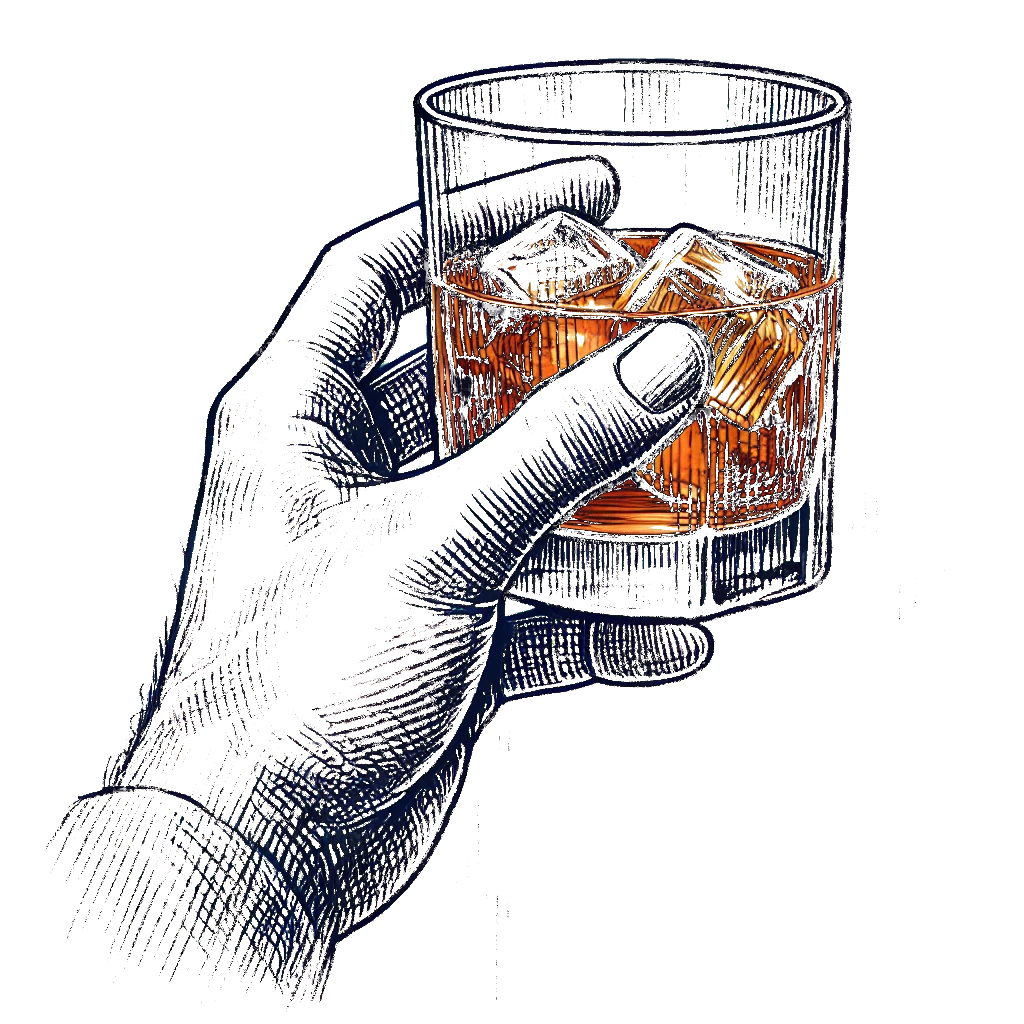
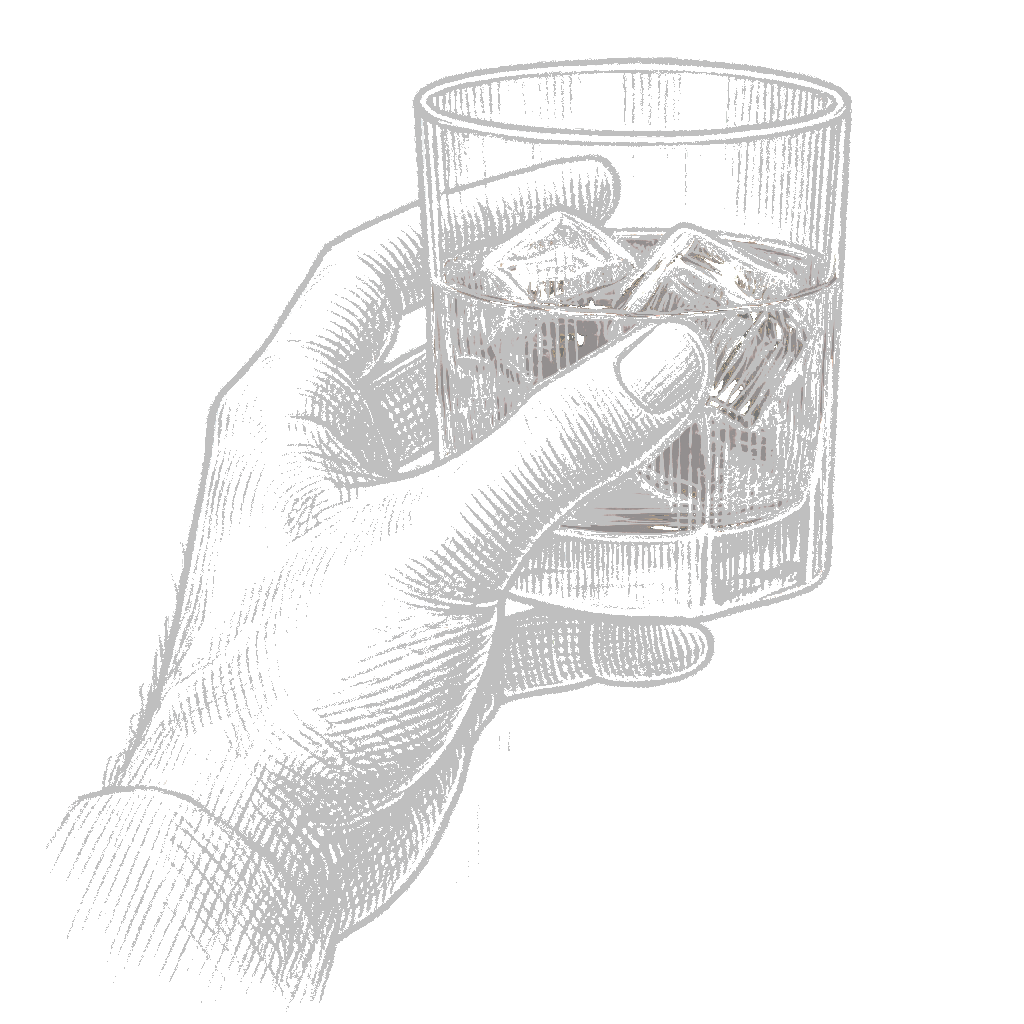
build 7, colors changed

diff --git a/src/AgeVerification.js b/src/AgeVerification.js
@@ -1,23 +1,26 @@
 import React, { useState } from 'react';
 import handImage from './hand.png'; // Import the image
 
+
 const AgeVerification = ({ setIsVerified }) => {
   const [showMirroredImage, setShowMirroredImage] = useState(false);
-  const [animateLeftImage, setAnimateLeftImage] = useState(false); // New state to animate the left image
+  const [animateLeftImage, setAnimateLeftImage] = useState(false);
+  const [fadeOut, setFadeOut] = useState(false); // State to trigger fade-out
 
   const handleYesClick = () => {
-    setAnimateLeftImage(true); // Trigger animation for the left image
+    setAnimateLeftImage(true);
+    setFadeOut(true); // Trigger fade-out effect
     setTimeout(() => {
-      setShowMirroredImage(true); // Show mirrored image after the left image starts animating
-    }, 10); // Adjust time to sync animations
+      setShowMirroredImage(true); // Show mirrored image after animation starts
+    }, 10);
     setTimeout(() => {
-      setIsVerified(true); // After animation, mark as verified
-    }, 2500); // Adjust time based on animation duration
+      setIsVerified(true); // After fade-out, mark as verified
+    }, 2500); // Ensure this matches the CSS transition duration (1s)
   };
 
   const handleNoClick = () => {
     alert('You must be of legal age to access this site.');
-    setIsVerified(false);  // Redirect or block access
+    setIsVerified(false); // Redirect or block access
   };
 
   return (
@@ -26,11 +29,11 @@ const AgeVerification = ({ setIsVerified }) => {
       <img
         src={handImage}
         alt="Hand holding a glass of whiskey"
-        className={`whiskey-image ${animateLeftImage ? 'slideInLeft' : ''}`} // Add the animation class conditionally
+        className={`whiskey-image ${animateLeftImage ? 'slideInLeft' : ''}`}
       />
 
-      {/* Age verification text and buttons */}
-      <div className="age-verification-content">
+      {/* Age verification text and buttons with fade-out */}
+      <div className={`age-verification-content ${fadeOut ? 'fade-out' : ''}`}>
         <h1>Are you of legal drinking age?</h1>
         <div className="buttons">
           <button onClick={handleYesClick}>Yes</button>

diff --git a/src/App.css b/src/App.css
@@ -142,7 +142,7 @@ body, html {
   align-items: center;
   justify-content: center;
   height: 100vh;
-  background-color: #f8f9fa;
+  background-color: #1c1c1e;
   position: relative;
   overflow: hidden;
 }
@@ -168,6 +168,13 @@ body, html {
   flex-direction: column;
   align-items: center;
   width: 50%;
+  opacity: 1; /* Default fully visible */
+  transition: opacity 0.8s ease; /* Smooth fade-out over 1 second */
+  color: #fff;
+}
+
+.fade-out {
+  opacity: 0; /* Faded out */
 }
 
 /* Mirrored image that appears and moves from the right */
